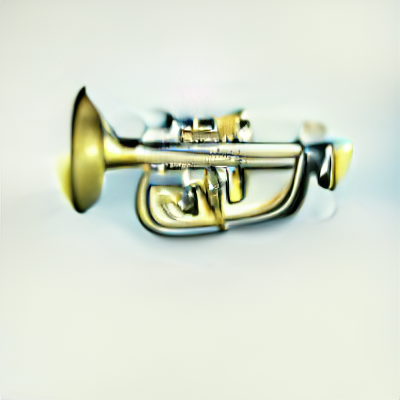
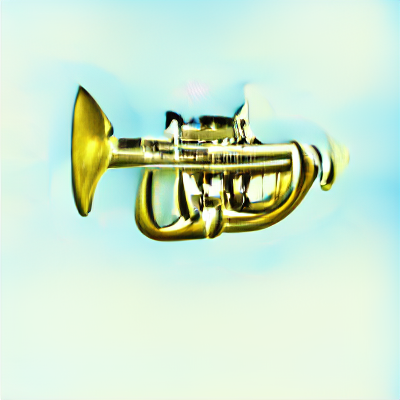
January 25, 2022 11:57 PM

diff --git a/train.py b/train.py
@@ -92,10 +92,10 @@ parser.add_argument('--padding', type=int, default=100)
 # parser.add_argument('--padding', type=int, default=100)
 
 # Art Deco | Art Nouveau? | 
-# parser.add_argument('--prompts', type=str, default="A painting in the style of Salvador Dali, trending on ArtStation:1.5|A photorealistic 3D render in Unreal Engine, trending on ArtStation:1.5" )
+parser.add_argument('--prompts', type=str, default="A painting in the style of Salvador Dali, trending on ArtStation:1.5|an 8K HD National Geographic photo taken with Fujifilm Superia:1.5" )
 # parser.add_argument('--prompts', type=str, default="an 8K HD National Geographic photo taken with Fujifilm Superia" )
 # parser.add_argument('--prompts', type=str, default="a painting in the style of Salvador Dali, trending on ArtStation:1.5" )
-parser.add_argument('--prompts', type=str, default="a photorealistic 3D render in Unreal Engine, trending on ArtStation:1.5" )
+# parser.add_argument('--prompts', type=str, default="a photorealistic 3D render in Unreal Engine, trending on ArtStation:1.5" )
 # parser.add_argument('--prompts', type=str, default="Charcoal on canvas, 8K HD detailed black and white Wallpaper, trending on ArtStation:1.5" )
 # parser.add_argument('--prompts', type=str, default="")
 
@@ -104,7 +104,7 @@ parser.add_argument('--noise_prompt_weights', type=list, default=[])
 
 parser.add_argument('--path', type=str, default="")
 parser.add_argument('--save_root', type=str, default="/content/drive/MyDrive/AI/sketch-to-image/outputs")
-parser.add_argument('--output_dir', type=str, default="afrontpage_3d_after_only")
+parser.add_argument('--output_dir', type=str, default="bird_phot_dali_after_only")
 parser.add_argument('--save_bef_aft', type=int, default=0)
 parser.add_argument('--never_stop', type=int, default=1)
 
